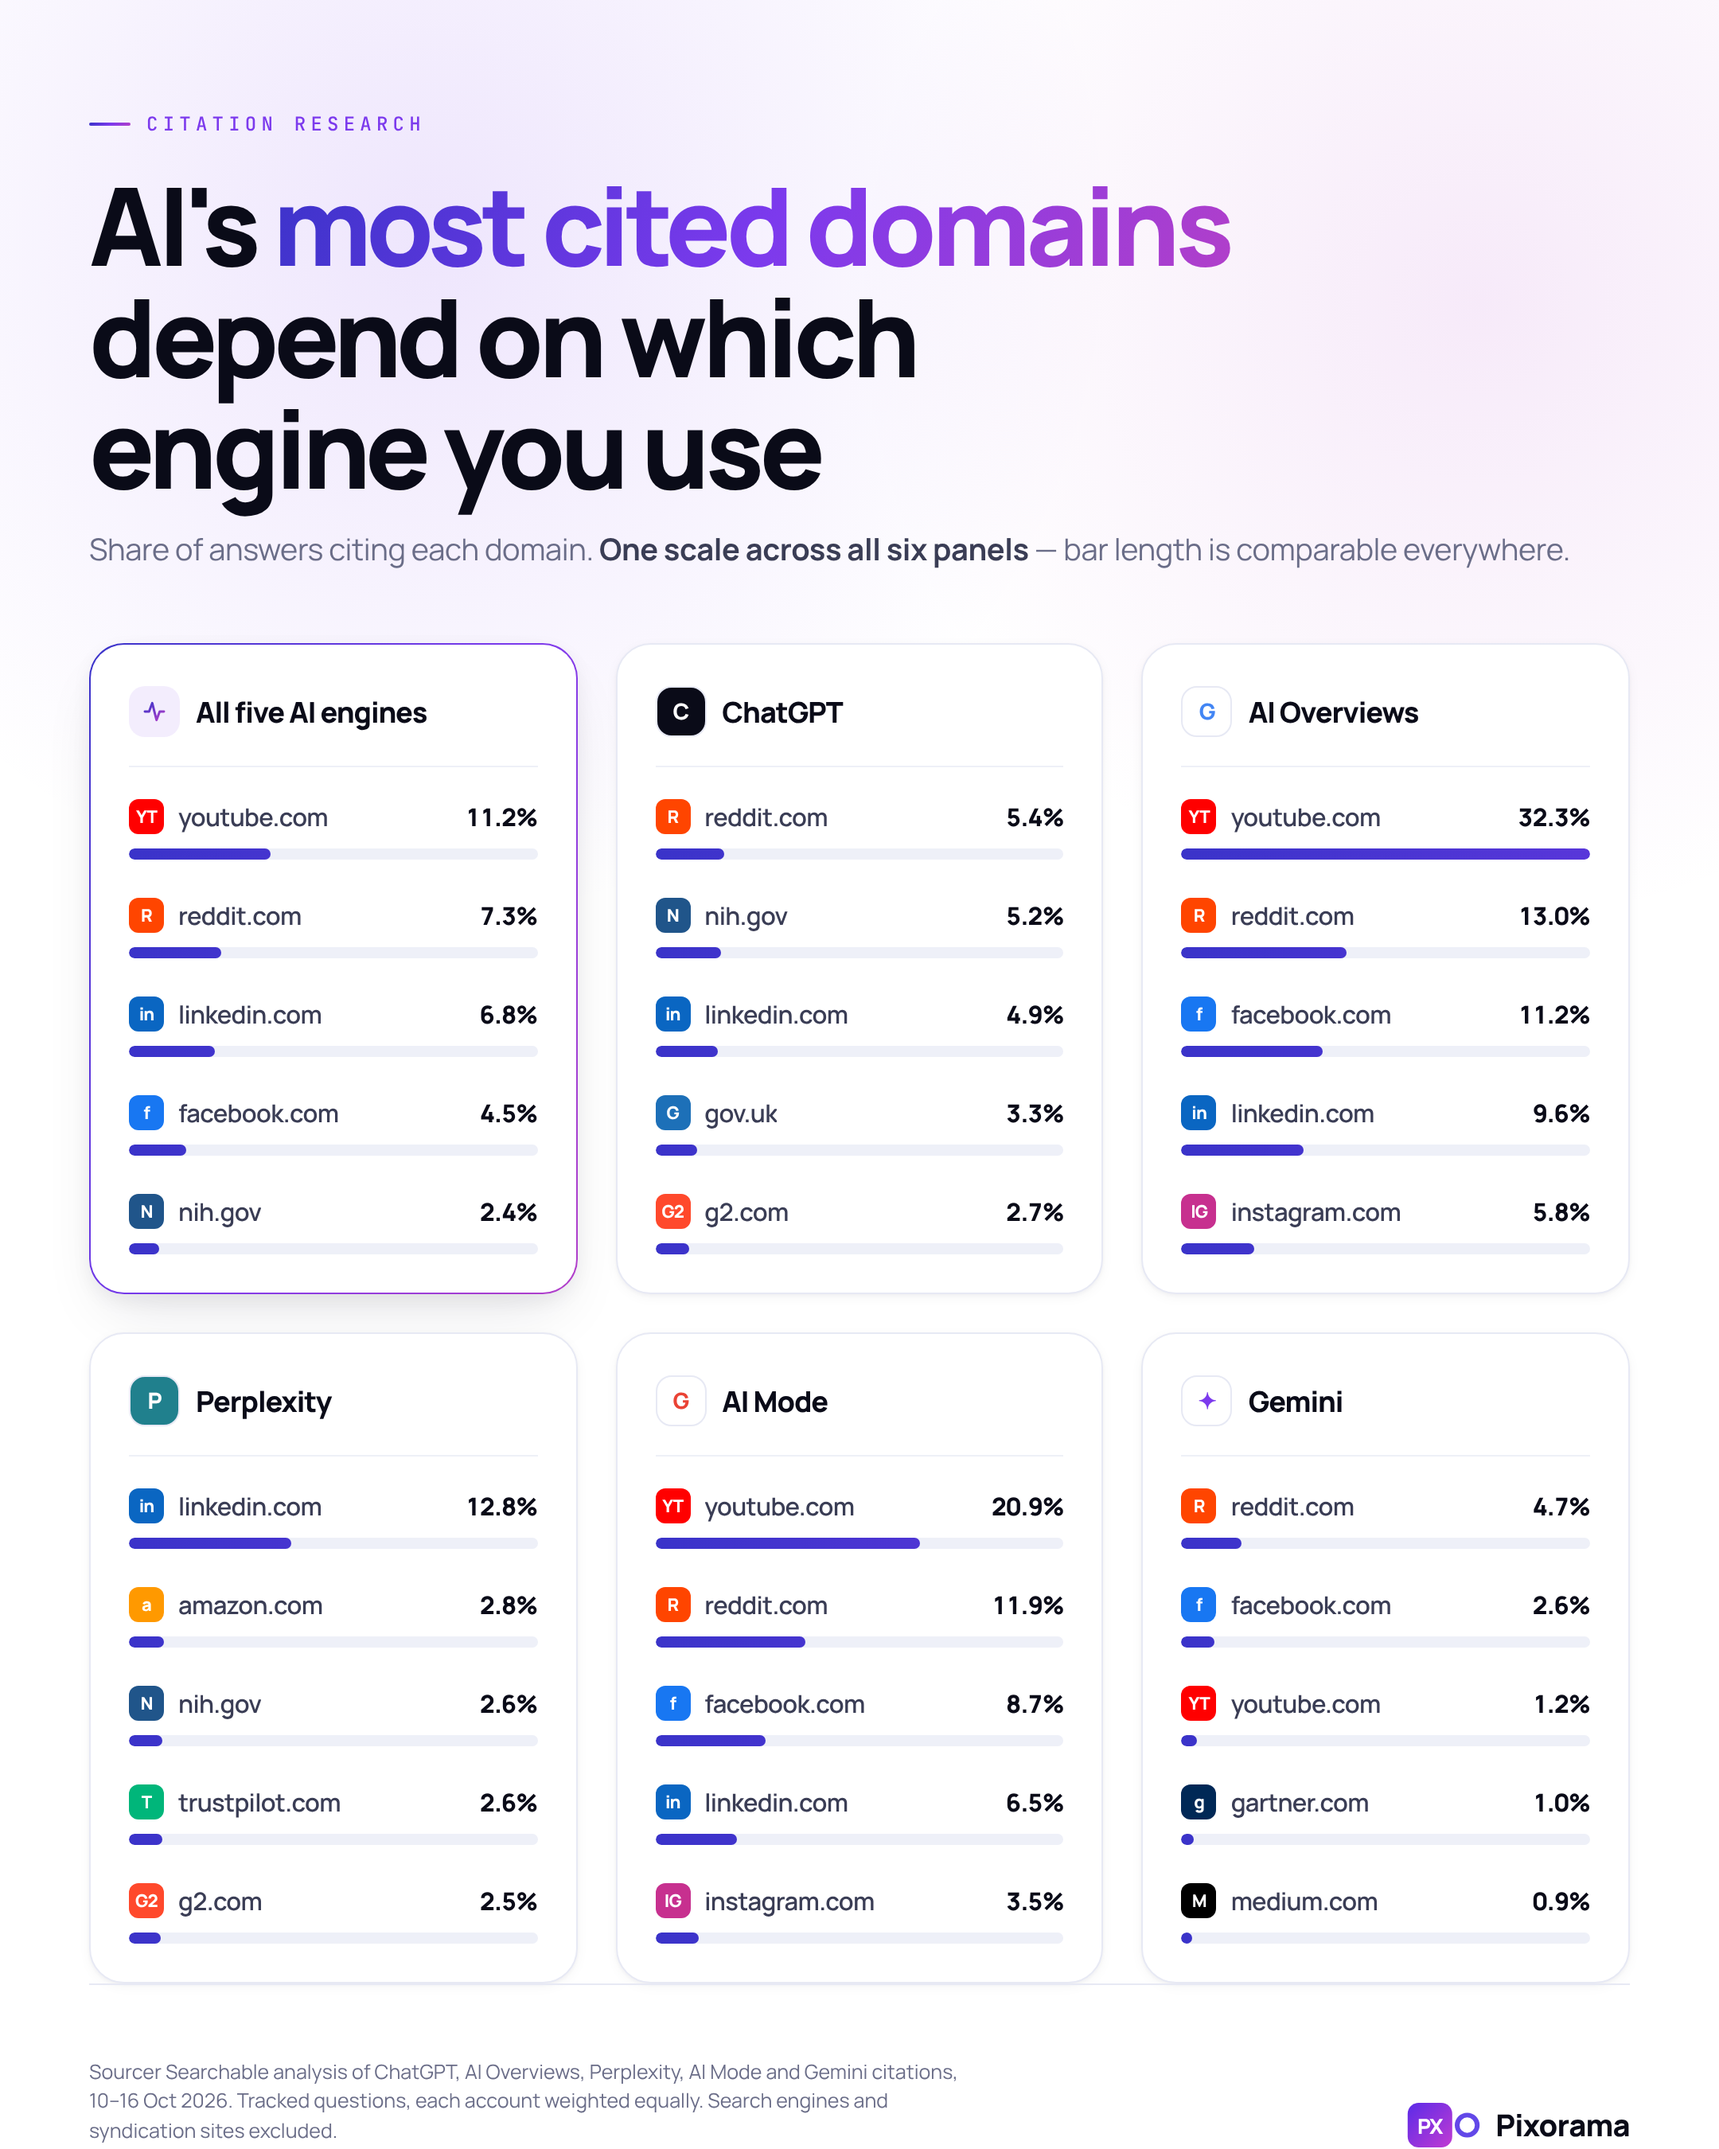
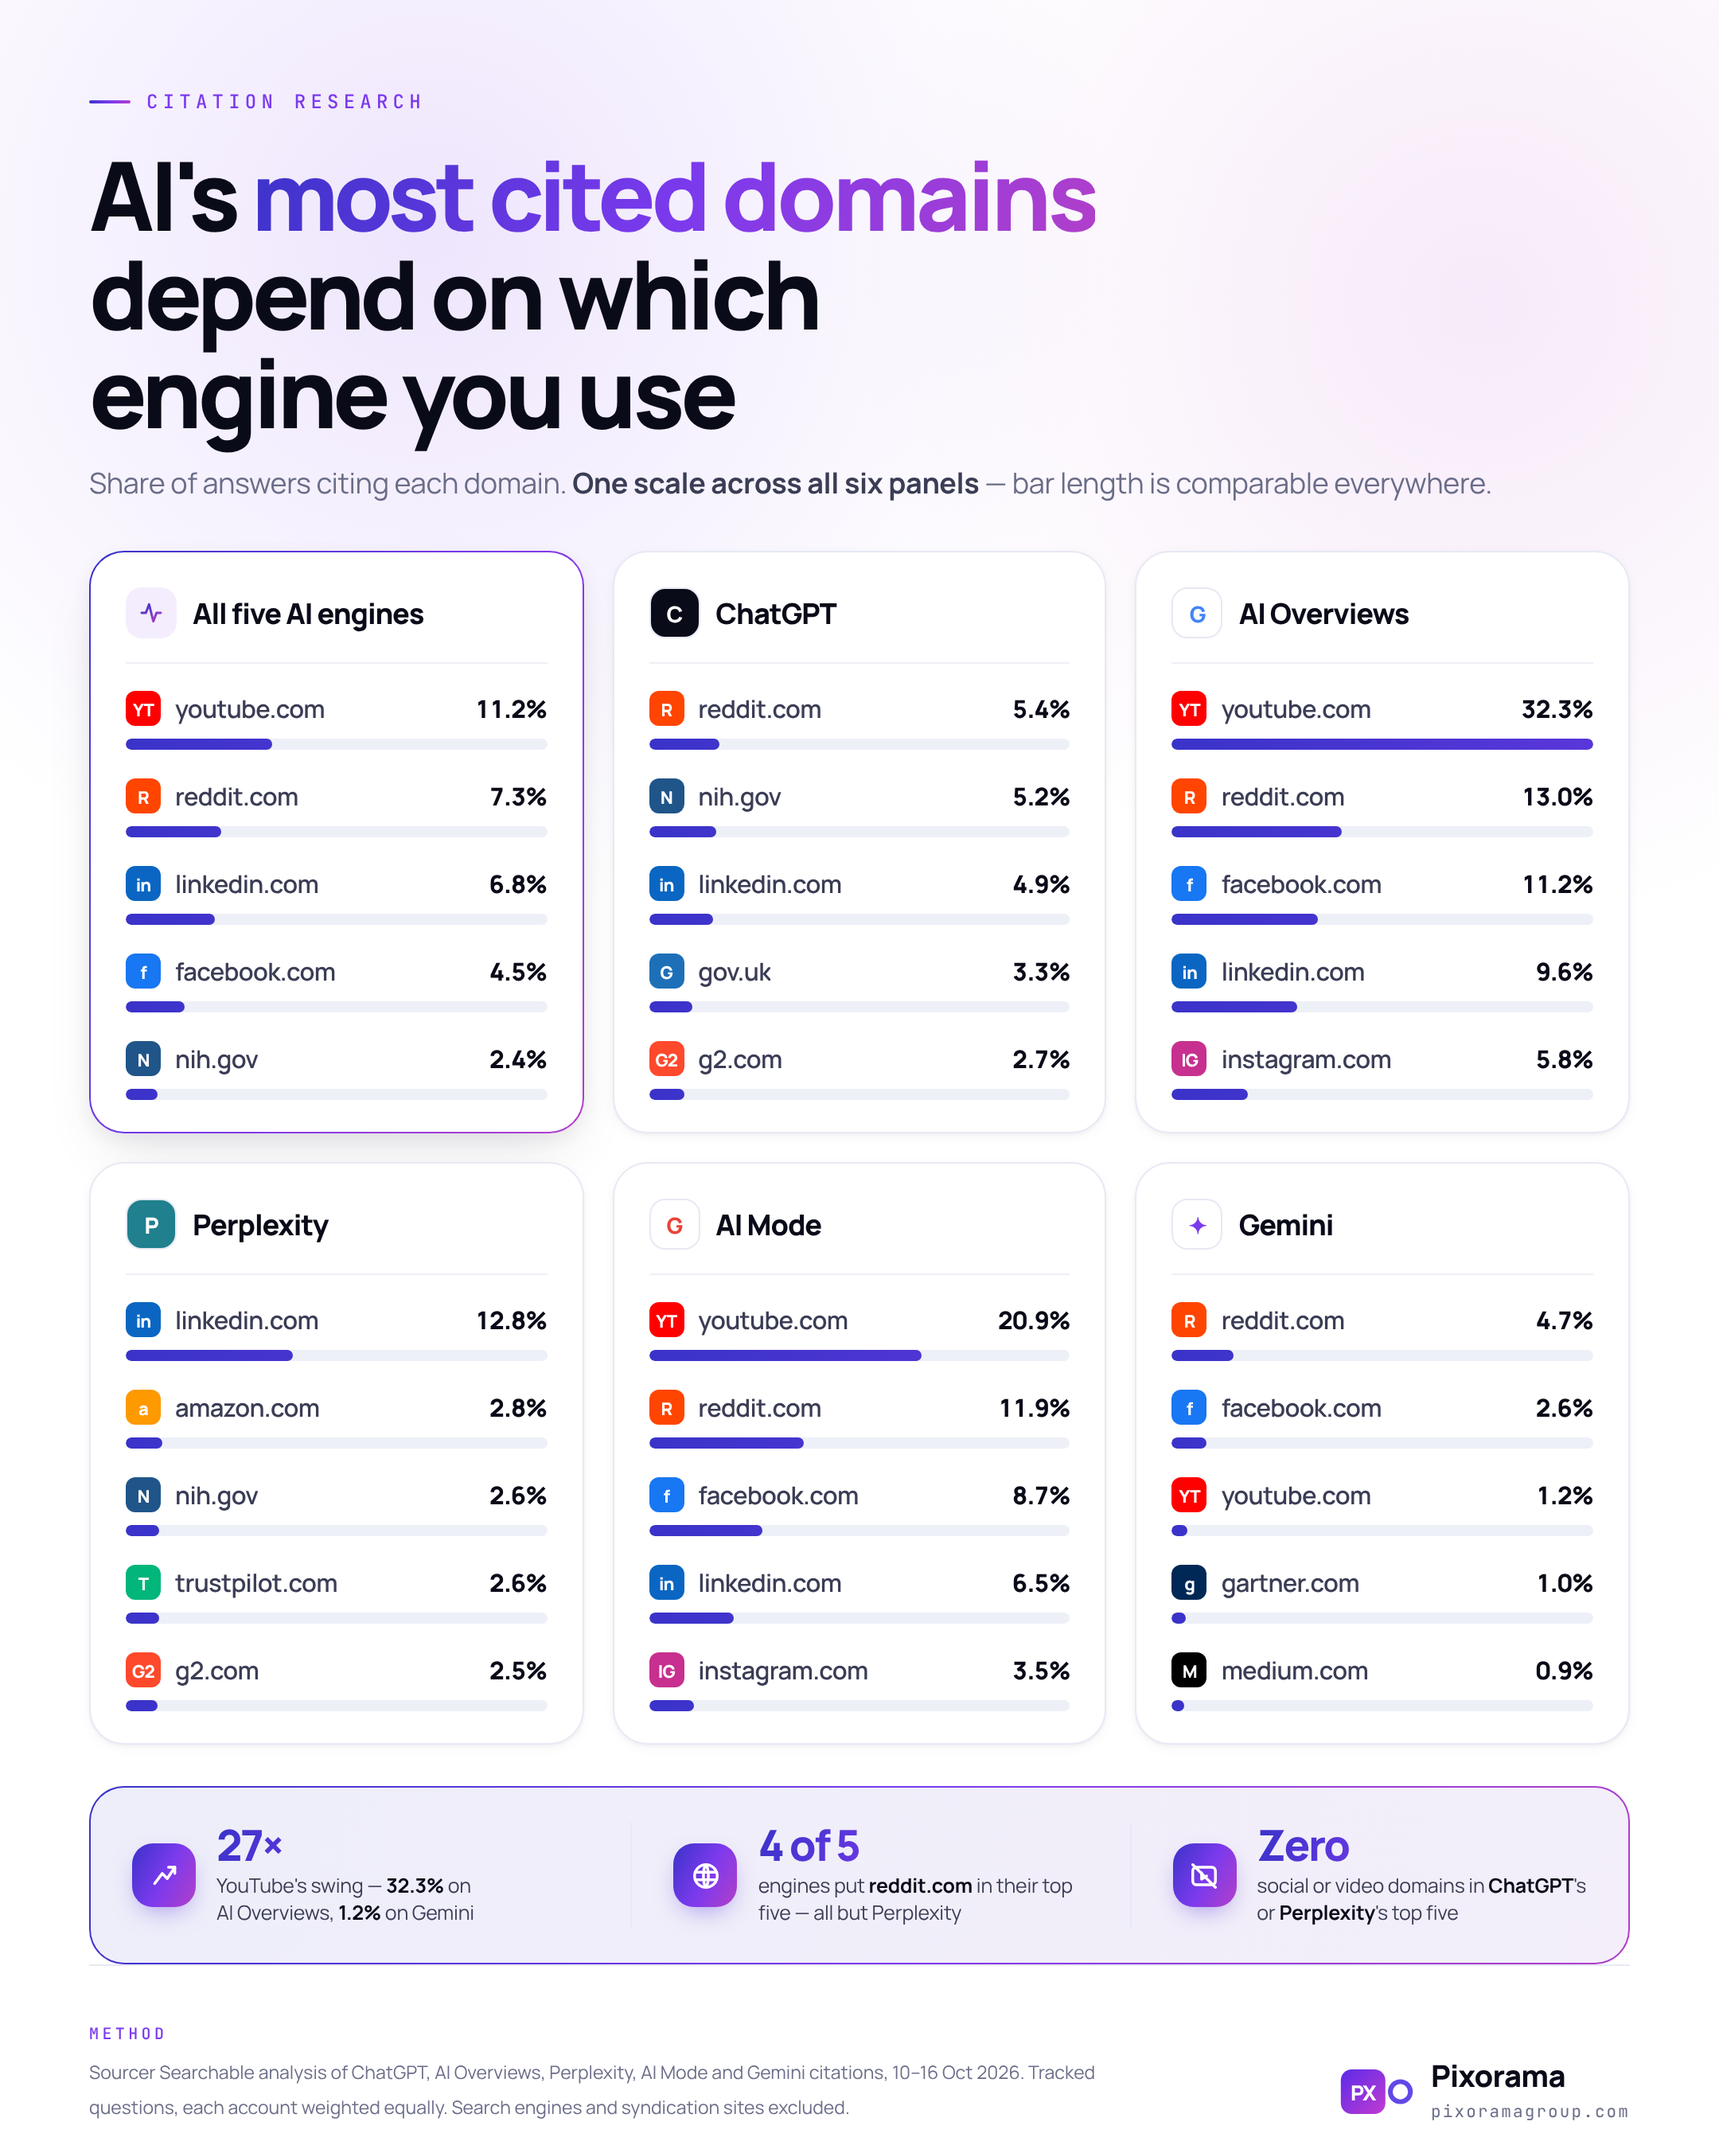
Replace footer fine print with a takeaway band
The lower third was methodology text only, which wastes the most-read zone
of a social post. Adds a three-up insight band using the site's own .hstat
component (gradient icon tile, gradient numeral, muted label), then demotes
the method note to a mono-labelled caption and adds the domain to the
signature.

The three figures are derived from the panel data and were checked before
use, which corrected two wrong assumptions: reddit.com appears in 4 of 5
engines rather than 5 of 6 (Perplexity omits it), and ChatGPT cites no
social or video domains either, not just Perplexity.

Headline and card spacing tightened to make room without overflowing the
1080x1350 frame.

Claude-Session: https://claude.ai/code/session_013GfxFJ5DDeYddFkK66kmV5

diff --git a/design/ai-citations/card.html b/design/ai-citations/card.html
@@ -42,7 +42,7 @@ body{
   background:radial-gradient(circle at center,rgba(178,63,201,.11),transparent 62%);
 }
 
-.wrap{position:relative;padding:70px 56px 0;height:100%;display:flex;flex-direction:column}
+.wrap{position:relative;padding:56px 56px 0;height:100%;display:flex;flex-direction:column}
 
 /* ---------- header ---------- */
 .eyebrow{
@@ -54,7 +54,7 @@ body{
 
 h1{
   margin-top:20px;
-  font-size:68px;line-height:1.03;letter-spacing:-.045em;font-weight:800;
+  font-size:60px;line-height:1.03;letter-spacing:-.045em;font-weight:800;
   max-width:16ch;
 }
 h1 .g{
@@ -63,16 +63,16 @@ h1 .g{
   -webkit-text-fill-color:transparent;
 }
 .sub{
-  margin-top:16px;font-size:19px;line-height:1.45;color:var(--muted);
+  margin-top:13px;font-size:18px;line-height:1.45;color:var(--muted);
   letter-spacing:-.01em;
 }
 .sub b{color:var(--ink-2);font-weight:700}
 
 /* ---------- grid ---------- */
 .grid{
-  margin-top:44px;
+  margin-top:30px;
   display:grid;grid-template-columns:repeat(3,1fr);
-  gap:24px;
+  gap:18px;
 }
 
 .card{
@@ -80,7 +80,7 @@ h1 .g{
   border:1px solid var(--line);
   border-radius:var(--r-lg);
   box-shadow:var(--shadow-sm);
-  padding:26px 24px 24px;
+  padding:22px 22px 20px;
   display:flex;flex-direction:column;
 }
 .card--lead{
@@ -94,7 +94,7 @@ h1 .g{
 
 .card__head{
   display:flex;align-items:center;gap:10px;
-  padding-bottom:18px;margin-bottom:20px;
+  padding-bottom:15px;margin-bottom:17px;
   border-bottom:1px solid var(--line-2);
 }
 .card__mark{
@@ -108,8 +108,8 @@ h1 .g{
 }
 
 /* ---------- rows ---------- */
-.row{display:flex;flex-direction:column;gap:9px}
-.row + .row{margin-top:24px}
+.row{display:flex;flex-direction:column;gap:8px}
+.row + .row{margin-top:18px}
 
 .row__top{display:flex;align-items:center;gap:9px}
 .row__ico{
@@ -130,19 +130,58 @@ h1 .g{
 .track{height:7px;border-radius:var(--r-pill);background:var(--paper-3);overflow:hidden}
 .fill{height:100%;border-radius:var(--r-pill);background:var(--grad);background-size:1080px 100%}
 
+/* ---------- takeaway band ---------- */
+.band{
+  margin-top:26px;
+  border:1px solid var(--line);
+  border-radius:var(--r-lg);
+  background:
+    linear-gradient(var(--paper-2),var(--paper-2)) padding-box,
+    var(--grad) border-box;
+  border:1.5px solid transparent;
+  padding:22px 26px;
+  display:grid;grid-template-columns:repeat(3,1fr);gap:26px;
+  position:relative;
+}
+.band::before{
+  content:"";position:absolute;inset:0;border-radius:var(--r-lg);
+  background:linear-gradient(118deg,rgba(58,51,201,.05),rgba(178,63,201,.05));
+  pointer-events:none;
+}
+.hstat{display:flex;align-items:center;gap:13px;min-width:0;position:relative}
+.hstat > span:last-child{display:flex;flex-direction:column;min-width:0}
+.hstat + .hstat{padding-left:26px;border-left:1px solid var(--line)}
+.hstat__ico{
+  width:40px;height:40px;flex:none;border-radius:13px;display:grid;place-items:center;
+  color:#fff;background:var(--grad);box-shadow:0 6px 16px -6px rgba(90,60,220,.6);
+}
+.hstat__n{
+  display:block;font-size:27px;font-weight:800;letter-spacing:-.045em;line-height:1;
+  background:var(--grad);-webkit-background-clip:text;background-clip:text;
+  -webkit-text-fill-color:transparent;
+}
+.hstat__l{display:block;margin-top:5px;font-size:12.5px;line-height:1.35;color:var(--ink-2);letter-spacing:-.01em}
+.hstat__l b{color:var(--ink);font-weight:700}
+
 /* ---------- footer ---------- */
 .foot{
   margin-top:auto;
-  padding:26px 0 40px;
-  display:flex;align-items:flex-end;justify-content:space-between;gap:28px;
+  padding:20px 0 34px;
+  display:flex;align-items:flex-end;justify-content:space-between;gap:36px;
   border-top:1px solid var(--line);
 }
-.foot__note{
-  font-size:12.5px;line-height:1.5;color:var(--muted);max-width:74ch;
-  padding-top:20px;
+.foot__note{padding-top:16px;max-width:70ch}
+.foot__lbl{
+  font-family:var(--font-mono);font-size:10px;letter-spacing:.22em;
+  text-transform:uppercase;color:var(--violet);font-weight:500;display:block;margin-bottom:5px;
 }
-.logo{display:flex;align-items:center;gap:10px;flex:none;padding-top:20px}
-.logo__word{font-size:19px;font-weight:800;letter-spacing:-.02em;color:var(--ink)}
+.foot__txt{font-size:11.5px;line-height:1.5;color:var(--muted)}
+.sign{display:flex;align-items:center;gap:11px;flex:none;padding-top:16px}
+.logo__word{font-size:19px;font-weight:800;letter-spacing:-.02em;color:var(--ink);line-height:1.05}
+.logo__url{
+  font-family:var(--font-mono);font-size:10.5px;letter-spacing:.1em;
+  color:var(--muted);margin-top:3px;
+}
 </style>
 </head>
 <body>
@@ -157,13 +196,54 @@ h1 .g{
 
   <div class="grid" id="grid"></div>
 
+  <div class="band">
+    <div class="hstat">
+      <span class="hstat__ico">
+        <svg width="19" height="19" viewBox="0 0 24 24" fill="none" stroke="currentColor"
+             stroke-width="2.2" stroke-linecap="round" stroke-linejoin="round">
+          <path d="M4 18 L10 10 L14 14 L20 5"/><path d="M20 10V5h-5"/></svg>
+      </span>
+      <span>
+        <span class="hstat__n">27&times;</span>
+        <span class="hstat__l">YouTube's swing &mdash; <b>32.3%</b> on AI&nbsp;Overviews, <b>1.2%</b> on Gemini</span>
+      </span>
+    </div>
+
+    <div class="hstat">
+      <span class="hstat__ico">
+        <svg width="19" height="19" viewBox="0 0 24 24" fill="none" stroke="currentColor"
+             stroke-width="2.2" stroke-linecap="round" stroke-linejoin="round">
+          <circle cx="12" cy="12" r="9"/><path d="M3.5 9h17M3.5 15h17"/>
+          <path d="M12 3c2.6 3 2.6 15 0 18M12 3c-2.6 3-2.6 15 0 18"/></svg>
+      </span>
+      <span>
+        <span class="hstat__n">4 of 5</span>
+        <span class="hstat__l">engines put <b>reddit.com</b> in their top five &mdash; all but Perplexity</span>
+      </span>
+    </div>
+
+    <div class="hstat">
+      <span class="hstat__ico">
+        <svg width="19" height="19" viewBox="0 0 24 24" fill="none" stroke="currentColor"
+             stroke-width="2.2" stroke-linecap="round" stroke-linejoin="round">
+          <path d="M3 3l18 18"/><rect x="3" y="5" width="18" height="14" rx="3"/>
+          <path d="M10 9.5v5l4-2.5"/></svg>
+      </span>
+      <span>
+        <span class="hstat__n">Zero</span>
+        <span class="hstat__l">social or video domains in <b>ChatGPT</b>'s or <b>Perplexity</b>'s top five</span>
+      </span>
+    </div>
+  </div>
+
   <div class="foot">
     <p class="foot__note">
-      Sourcer Searchable analysis of ChatGPT, AI Overviews, Perplexity, AI Mode and Gemini citations,
-      10&ndash;16 Oct 2026. Tracked questions, each account weighted equally.
-      Search engines and syndication sites excluded.
+      <span class="foot__lbl">Method</span>
+      <span class="foot__txt">Sourcer Searchable analysis of ChatGPT, AI Overviews, Perplexity, AI Mode and
+      Gemini citations, 10&ndash;16 Oct 2026. Tracked questions, each account weighted equally.
+      Search engines and syndication sites excluded.</span>
     </p>
-    <div class="logo">
+    <div class="sign">
       <svg width="46" height="28" viewBox="0 0 197 122" fill="none" aria-hidden="true">
         <defs>
           <linearGradient id="px-g" x1="0" y1="0" x2="1" y2="1">
@@ -177,7 +257,10 @@ h1 .g{
               font-family="Manrope, sans-serif">PX</text>
         <circle cx="163" cy="61" r="27.5" stroke="#6248E8" stroke-width="13" fill="none"/>
       </svg>
-      <span class="logo__word">Pixorama</span>
+      <span>
+        <span class="logo__word">Pixorama</span>
+        <span class="logo__url" style="display:block">pixoramagroup.com</span>
+      </span>
     </div>
   </div>
 

diff --git a/design/ai-citations/README.md b/design/ai-citations/README.md
@@ -21,3 +21,15 @@ type matches exactly without a network call at render time.
 ## Chart note
 All bars share one global scale (max = 32.3%, AI Overviews / youtube.com),
 so bar length is comparable across all six panels — same as the source chart.
+
+## Takeaway band
+The three figures in the lower band are derived from the panel data, not
+asserted. Verified before use:
+
+- `27x` — youtube.com, 32.3% (AI Overviews) vs 1.2% (Gemini)
+- `4 of 5` — engines with reddit.com in their top five; Perplexity is the exception
+- `Zero` — social/video domains (youtube/facebook/instagram) in ChatGPT's or
+  Perplexity's top five
+
+Note "4 of 5" counts the five engines only, excluding the "All five AI
+engines" aggregate panel.
